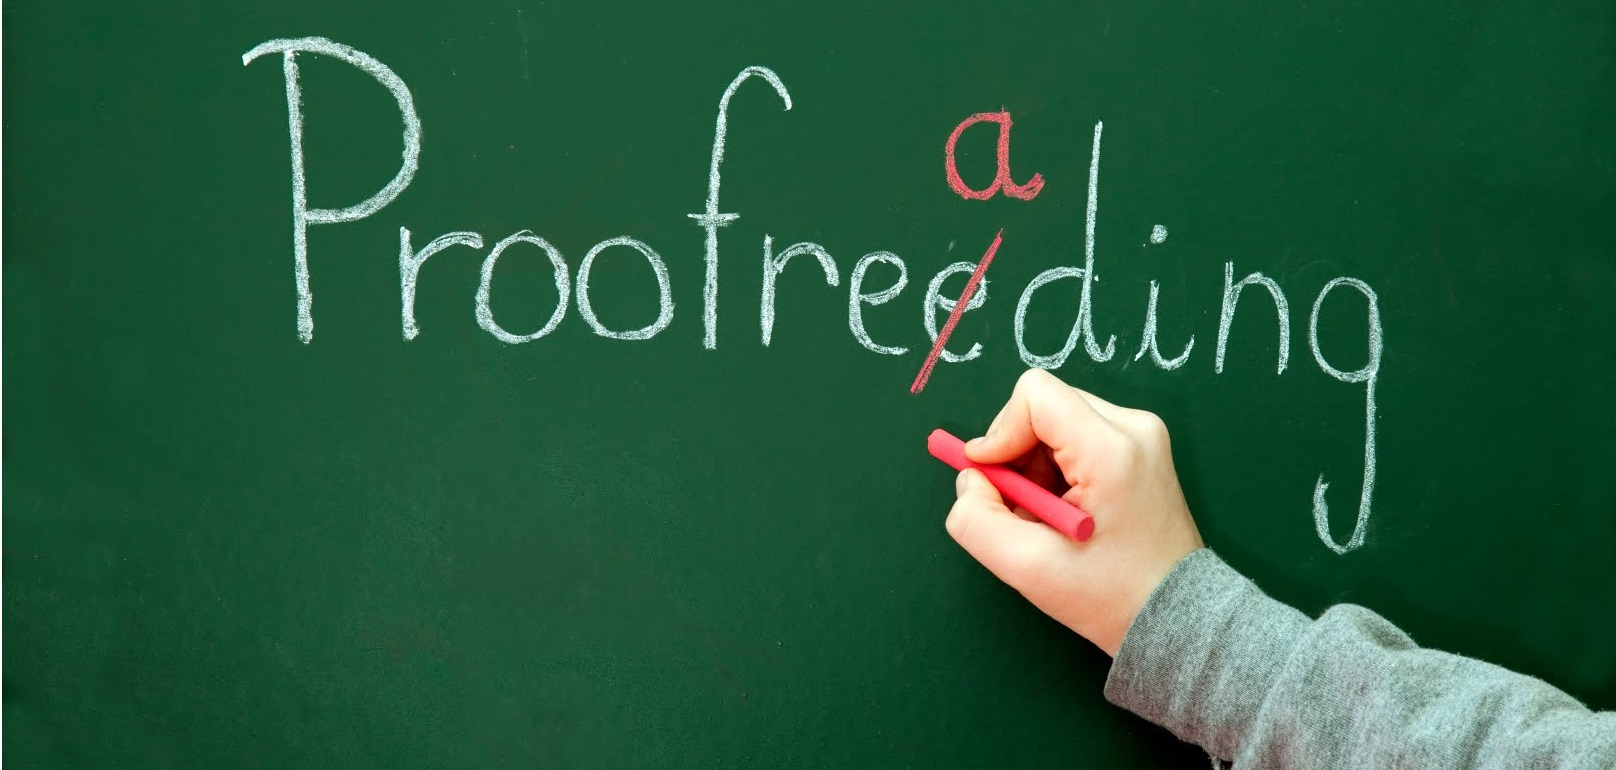
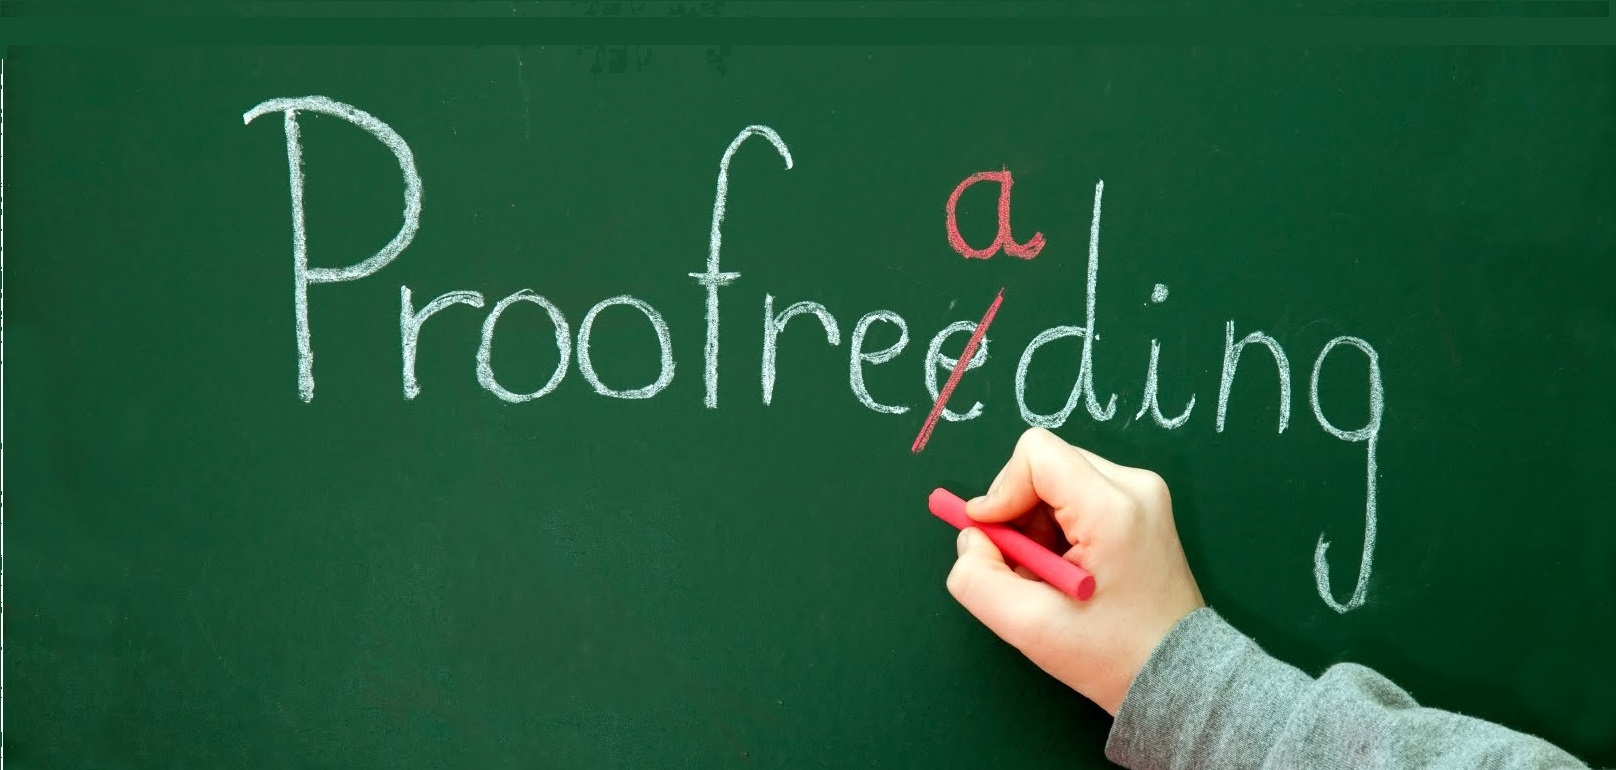
Corrected text and gave more height to image

Changed region(s): [[0.1547, 0.0312, 1.0, 1.0], [0.7116, 0.2805, 0.7426, 0.3117]]

diff --git a/index.html b/index.html
@@ -22,7 +22,7 @@ h1,h2,h3,h4,h5,h6 {
     <!-- Right-sided navbar links. Hide them on small screens -->
     <li class="w3-right w3-hide-small">
       <a href="#about" class="w3-left">About</a>
-      <a href="#menu" class="w3-left">Menu</a>
+      <a href="#menu" class="w3-left">Services</a>
       <a href="#contact" class="w3-left w3-margin-right">Contact</a>
     </li>
   </ul>
@@ -30,9 +30,9 @@ h1,h2,h3,h4,h5,h6 {
 
 <!-- Header -->
 <header class="w3-display-container w3-content w3-wide" style="max-width:1600px;min-width:500px" id="home">
-  <img class="w3-image" src="images/proofread.jpg" alt="Hamburger Catering" width="1600" height="800">
+  <img class="w3-image" src="images/proofread.jpg" alt="Proof reading image" width="1600" height="800">
   <div class="w3-display-bottomleft w3-padding-xlarge w3-opacity">
-    <h1 class="w3-xxlarge">Proofreading services</h1>
+    <h1 class="w3-xxlarge" style="color:white;">Fix mistakes now!</h1>
   </div>
 </header>
 
@@ -48,7 +48,7 @@ h1,h2,h3,h4,h5,h6 {
     <div class="w3-col m6 w3-padding-large">
       <h1 class="w3-center">About Basia</h1><br>
       <h5 class="w3-center">Proof reading since 2001</h5>
-      <p class="w3-large">Basia has been proof reading for a long time. She's done essays, thesis', small sections, etc. She doesn't just look for grammar but refrences, formatting and much, much more
+      <p class="w3-large">Basia has been proof reading for a long time. She's done essays, thesis', small sections, etc. She doesn't just look for grammar but refrences, formatting and much, much more.
     </div>
   </div>
   
@@ -59,13 +59,13 @@ h1,h2,h3,h4,h5,h6 {
     <div class="w3-col l6 w3-padding-large">
       <h1 class="w3-center">My services</h1><br>
       <h4>Grammar</h4>
-      <p class="w3-text-grey">Correct even the worst grammar to be the Queen's English</p><br>
+      <p class="w3-text-grey">Correct even the worst grammar to be the Queen's English.</p><br>
     
       <h4>Spelling</h4>
       <p class="w3-text-grey">Spell so well, you'll be taken as a native speaker even if you're not.</p><br>
     
       <h4>Refrences</h4>
-      <p class="w3-text-grey">Get that thesis corrected according to any standard</p><br>
+      <p class="w3-text-grey">Get that thesis corrected according to any standard.</p><br>
     
       <h4>Reason</h4>
       <p class="w3-text-grey">Ensure you're explanations and train of thought are cohesive, make sense, portray your idea clearly and consisely.</p><br>
@@ -82,13 +82,11 @@ h1,h2,h3,h4,h5,h6 {
   <!-- Contact Section -->
   <div class="w3-container w3-padding-64" id="contact">
     <h1>Contact</h1><br>
-    <p>I offer full proof reading service for an article of any size (email to Thesis). Do not hesitate to contact mr.</p>
-    <p class="w3-text-blue-grey w3-large"><b>Cool place, Taurange</b></p>
-    <p>You can also contact us by phone 00553123-2323 or email basia.garratt@gmail.com, or you can send us a message here:</p>
+    <p>I offer full proof reading service for an article of any size (email to Thesis). Do not hesitate to contact me.</p>
+    <p>My phone number is +64 22415 2822, email basia.garratt@gmail.com, and you can send me a message here:</p>
     <form action="/action_page.php" target="_blank">
       <p><input class="w3-input w3-padding-16" type="text" placeholder="Name" required name="Name"></p>
-      <p><input class="w3-input w3-padding-16" type="number" placeholder="How many pages" required name="People"></p>
-      <p><input class="w3-input w3-padding-16" type="datetime-local" placeholder="Date and time" required name="date" value="2017-11-16T20:00"></p>
+      <p><input class="w3-input w3-padding-16" type="text" placeholder="Subject" required name="People"></p>      
       <p><input class="w3-input w3-padding-16" type="text" placeholder="Message \ Special requirements" required name="Message"></p>
       <p><button class="w3-btn w3-padding w3-section" type="submit">SEND MESSAGE</button></p>
     </form>
